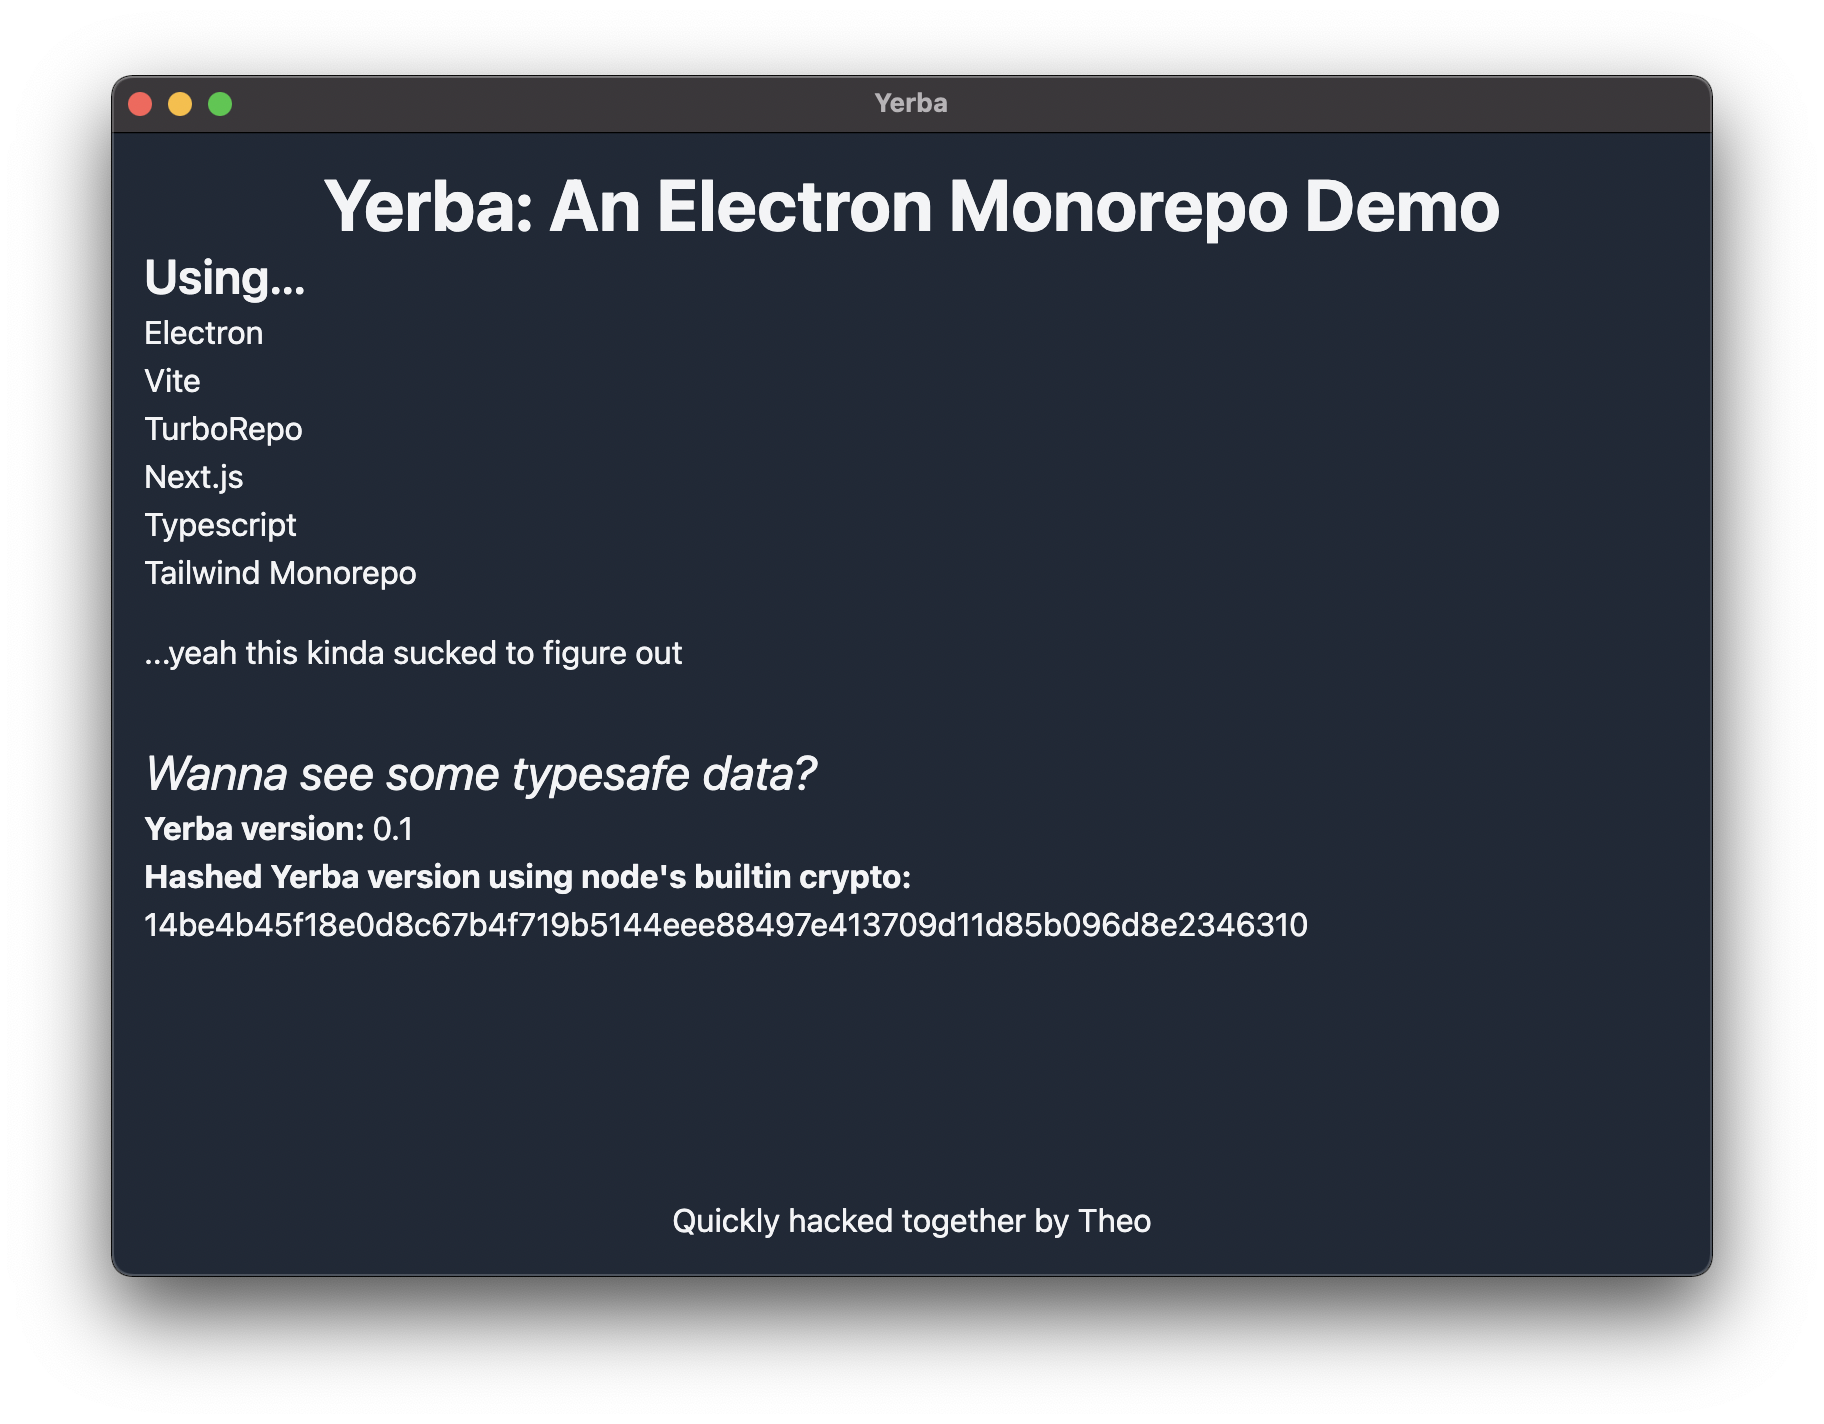
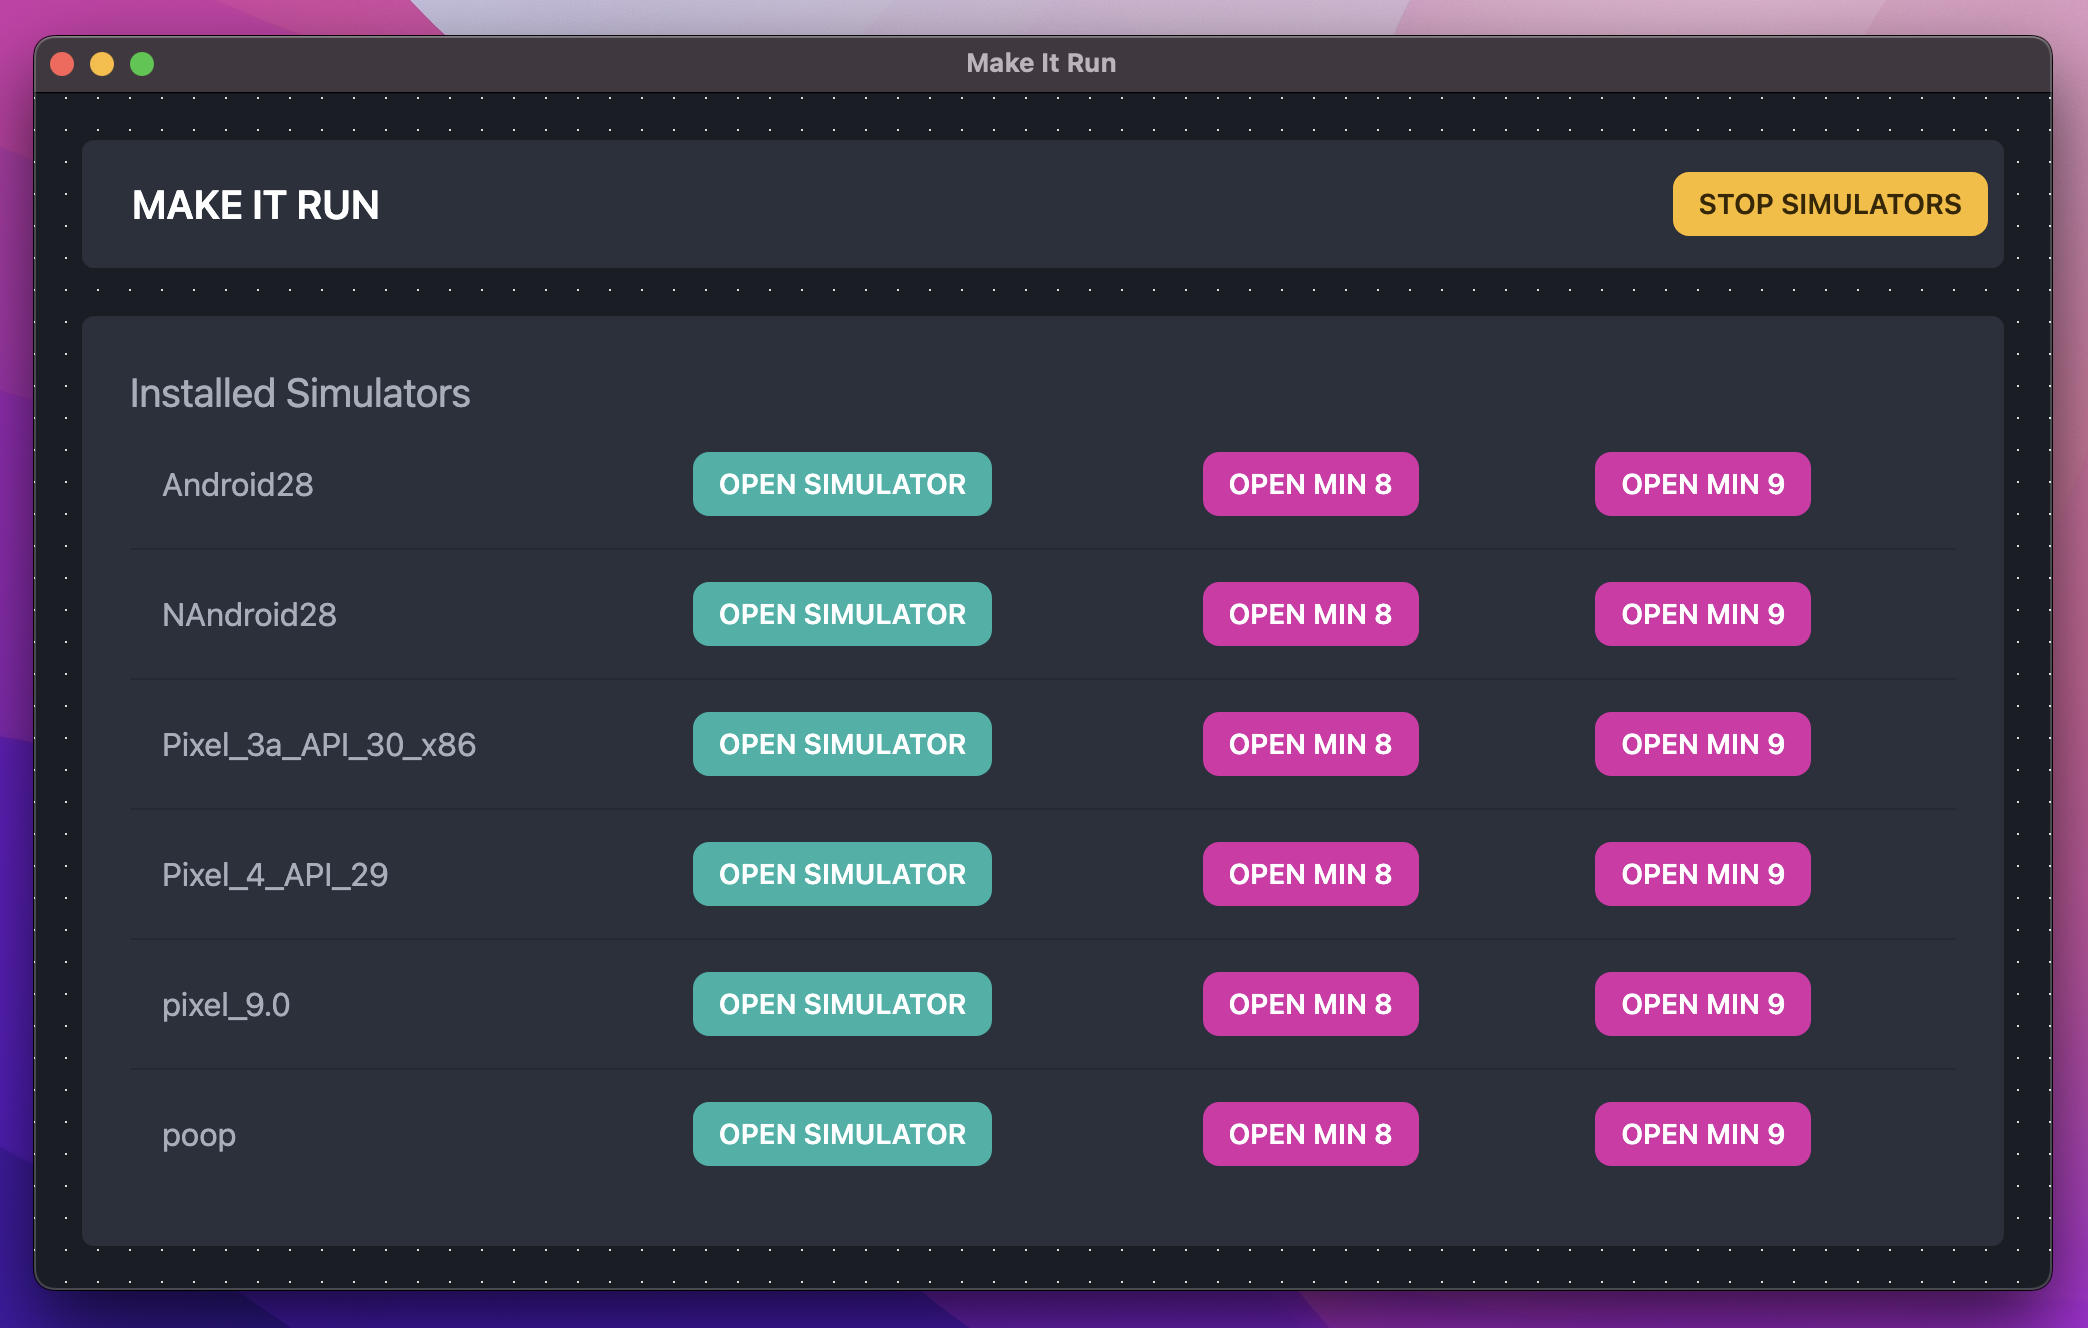
fix: :pushpin: docs

diff --git a/projects/make-it-run/apps/fe/src/component/StartSimulatorButton.tsx b/projects/make-it-run/apps/fe/src/component/StartSimulatorButton.tsx
@@ -1,4 +1,3 @@
-import React from "react";
 type StartSimulator_Comp = {
   name: string;
   type: number;
@@ -11,7 +10,6 @@ const StartSimulatorButton = (props: StartSimulator_Comp) => {
     let deviceBooted = false;
     do {
       const devDone = await window.android.checkIfBootHasCompleted();
-      console.log("devDone", devDone);
       if (devDone) {
         if (devDone.status === 0) {
           deviceBooted = true;
@@ -28,8 +26,6 @@ const StartSimulatorButton = (props: StartSimulator_Comp) => {
           (await window.android.openMendixApp(installedAppName));
       }
       if (!installedAppName) {
-        console.log("🔥");
-
         await window.android.downloadMendixApps(props.type);
         // MX MUST BE INSTALLED
         await setTimeout(async () => {

diff --git a/projects/make-it-run/apps/electron/layers/preload/src/androidSimulator.ts b/projects/make-it-run/apps/electron/layers/preload/src/androidSimulator.ts
@@ -25,13 +25,13 @@ const spawn = require("cross-spawn");
 
 export const witchSimulatorIsInstalled = async () => {
   try {
-    const { stdout } = await spawnAsync("emulator", ["-list-avds"], {
-      env: {
-        NODE_ENV: "production",
-        PATH: process.env.PATH,
-      },
-    });
-    // const { stdout } = await spawnAsync("emulator", ["-list-avds"]);
+    // const { stdout } = await spawnAsync("emulator", ["-list-avds"], {
+    //   env: {
+    //     NODE_ENV: "production",
+    //     PATH: process.env.PATH,
+    //   },
+    // });
+    const { stdout } = await spawnAsync("emulator", ["-list-avds"]);
     return stdout;
   } catch (error) {
     console.log("witchSimulatorIsInstalled", error);

diff --git a/projects/make-it-run/apps/fe/src/component/WebAccessed.tsx b/projects/make-it-run/apps/fe/src/component/WebAccessed.tsx
@@ -1,14 +1,14 @@
 const WebAccessed = () => {
   return (
     <div>
-      <div className="hero min-h-screen bg-base-200">
+      <div className="hero min-h-screen">
         <div className="hero-content text-center">
-          <div className="max-w-md">
+          <div className="max-w-md  bg-base-200 p-4 rounded-lg">
             <h1 className="text-5xl font-bold py-6">
               Please Use the Electron App
             </h1>
             <a
-              className="btn btn-primary btn-sm"
+              className="btn btn-secondary btn-xs"
               href="https://github.com/ahwelgemoed/make-it-run"
             >
               Found Here

diff --git a/projects/make-it-run/apps/fe/src/component/Navbar.tsx b/projects/make-it-run/apps/fe/src/component/Navbar.tsx
@@ -1,5 +1,3 @@
-import React from "react";
-
 const Navbar = () => {
   return (
     <div className="mb-6">

diff --git a/projects/make-it-run/README.md b/projects/make-it-run/README.md
@@ -1,5 +1,7 @@
 # Make It Run
 
+<img src='assets/example.png'/>
+
 🧰 Crafting Day Project -
 
 Electron and VITE app with Turbo repo to Launch Installed Android simulators. Will also Instal Make it Native 8 or 9.
